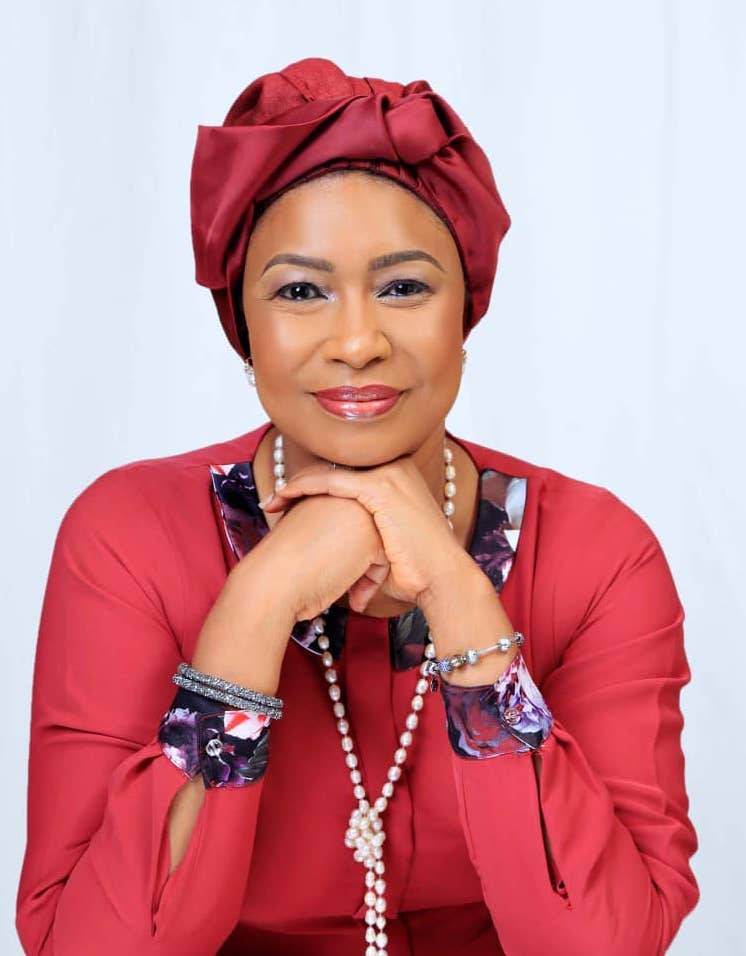
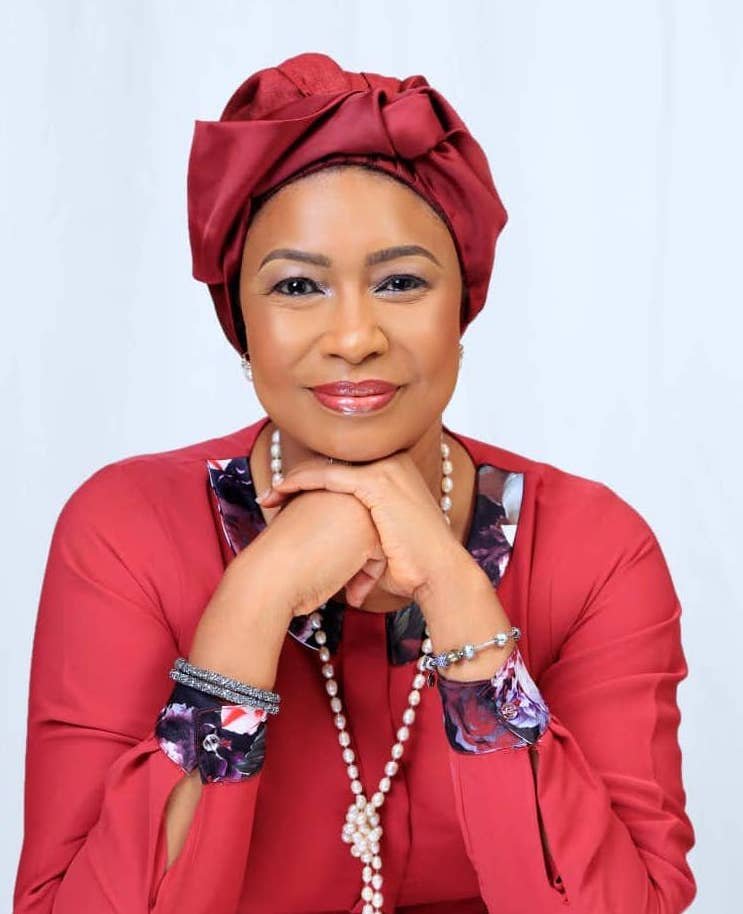
css changes

diff --git a/about.html b/about.html
@@ -213,7 +213,7 @@
           <div class="col-lg-3 col-md-6 d-flex align-items-stretch">
             <div class="member" data-aos="fade-up" data-aos-delay="200" >
               <div class="member-img">
-                <img src="assets/img/team/team-2.jpg" class="img-fluid" alt="">
+                <img src="assets/img/team/femi.jpeg" class="img-fluid" alt="">
                 <div class="social">
                   <a href=""><i class="bi bi-twitter"></i></a>
                   <a href=""><i class="bi bi-facebook"></i></a>
@@ -222,7 +222,7 @@
                 </div>
               </div>
               <div class="member-info">
-                <h4 data-toggle="modal" data-target="#portfolioModal3"> <i class = "bi bi-info-circle-fill" style = "color:#f03c02"> </i> Oni Oluwafemi Peters</h4>
+                <h4 data-toggle="modal" data-target="#portfolioModal3"> <i class = "bi bi-info-circle-fill" style = "color:#f03c02"> </i> Oni Oluwafemi Peter</h4>
                 <span>Head, Corporate Accounts, Health Insurance, Claims & Retainers</span>
               </div>
             </div>
@@ -505,7 +505,7 @@
                               <!-- Portfolio Modal - Title-->
                               <h2 class="portfolio-modal-title text-secondary text-uppercase mb-3" id="portfolioModal3Label">Oni Oluwafemi Peters</h2>
                               <!-- Portfolio Modal - Image-->
-                              <img class="img-fluid rounded mb-5" src="" alt="" />
+                              <img class="img-fluid rounded mb-5" src="assets/img/team/femi.jpeg" alt="" />
                               <!-- Portfolio Modal - Text-->
                               <p class="mb-3">Femi is a graduate of Microbiology from FUA Abeokuta; he has had experience working in various medical establishments in Lagos and Abuja. He worked at the National Space Research and Development Agency, (NASRDA), in 2010 as a Clinic Superintendent Assistant- in charge of Telemedicine, he then went on to Daar communications where he acquired experience in IT, public enlightenment and sensitization before joining the accounts department at Childcare Clinics in 2013. At CWC, he was an integral part of the team that handled reteinerships and HMO’s. He is smart, articulate and has excellent people and communication skills and a good research background.</p>
 

diff --git a/clinic/clinic_stay.html b/clinic/clinic_stay.html
@@ -61,7 +61,7 @@
               <li><a href="../privacy.html">Privacy</a></li>
             </ul>
           </li>
-          <li class="dropdown"><a href="../services.html"><span>Specialties</span></a>
+          <li><a href="../services.html"><span>Specialties</span></a>
             
           </li>
           <li class="dropdown"><a href="#" class = "active"><span>Clinic Guide</span> <i class="bi bi-chevron-down"></i></a>

diff --git a/clinic/for_patients.html b/clinic/for_patients.html
@@ -61,7 +61,7 @@
               <li><a href="../privacy.html">Privacy</a></li>
             </ul>
           </li>
-          <li class="dropdown"><a href="../services.html"><span>Specialties</span></a>
+          <li><a href="../services.html"><span>Specialties</span></a>
             
           </li>
           <li class="dropdown"><a href="#" class = "active"><span>Clinic Guide</span> <i class="bi bi-chevron-down"></i></a>

diff --git a/nadi.html b/nadi.html
@@ -61,7 +61,7 @@
               <li><a href="privacy.html">Privacy</a></li>
             </ul>
           </li>
-          <li><a href="services.html" class = "active"><span>Specialties</span></a>
+          <li><a href="services.html"><span>Specialties</span></a>
             
           </li>
           <li class="dropdown"><a href="#"><span>Clinic Guide</span> <i class="bi bi-chevron-down"></i></a>

diff --git a/privacy.html b/privacy.html
@@ -61,7 +61,7 @@
               <li><a href="privacy.html">Privacy</a></li>
             </ul>
           </li>
-          <li><a href="services.html" class = "active"><span>Specialties</span></a>
+          <li><a href="services.html"><span>Specialties</span></a>
             
           </li>
           <li class="dropdown"><a href="#"><span>Clinic Guide</span> <i class="bi bi-chevron-down"></i></a>

diff --git a/research.html b/research.html
@@ -61,7 +61,7 @@
               <li><a href="privacy.html">Privacy</a></li>
             </ul>
           </li>
-          <li><a href="services.html" class = "active"><span>Specialties</span></a>
+          <li><a href="services.html"><span>Specialties</span></a>
             
           </li>
           <li class="dropdown"><a href="#"><span>Clinic Guide</span> <i class="bi bi-chevron-down"></i></a>
